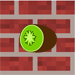
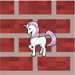
unicorn update

Changed region(s): [[0.24, 0.2667, 0.7733, 0.7733]]

diff --git a/src/nz/ac/aut/ense701/gui/GridSquarePanel.java b/src/nz/ac/aut/ense701/gui/GridSquarePanel.java
@@ -87,23 +87,35 @@ public class GridSquarePanel extends javax.swing.JPanel
                 lblText.setIcon(image);
             }
             //Food
-            if(game.getOccupantStringRepresentation(row, column) == "apple" ) {
-                image = new ImageIcon(getClass().getResource("/nz/ac/aut/ense701/image/scruba.jpg"));
-            }
-            //if( row == 6 && column == 7) {
-            //    image = new ImageIcon(getClass().getResource("/nz/ac/aut/ense701/image/scruba.jpg"));
+            //if(game.getOccupantStringRepresentation(row, column) == "apple" ) {
+                //image = new ImageIcon(getClass().getResource("/nz/ac/aut/ense701/image/scruba.jpg"));
             //}
+            if( row == 6 && column == 7) {
+                image = new ImageIcon(getClass().getResource("/nz/ac/aut/ense701/image/scruba.jpg"));
+                if(game.getOccupantStringRepresentation(row, column) == "") {
+                    image = new ImageIcon(getClass().getResource("/nz/ac/aut/ense701/image/scrub.jpg"));
+                }
+            }
             
             if( row == 5 && column == 4) {
                 image = new ImageIcon(getClass().getResource("/nz/ac/aut/ense701/image/grassm.jpg"));
+                if(game.getOccupantStringRepresentation(row, column) == "") {
+                    image = new ImageIcon(getClass().getResource("/nz/ac/aut/ense701/image/grass.jpg"));
+                }
             }
             
             if( row == 2 && column == 4) {
                 image = new ImageIcon(getClass().getResource("/nz/ac/aut/ense701/image/scrubs.jpg"));
+                if(game.getOccupantStringRepresentation(row, column) == "") {
+                    image = new ImageIcon(getClass().getResource("/nz/ac/aut/ense701/image/scrub.jpg"));
+                }
             }
             
             if( row == 8 && column == 2) {
                 image = new ImageIcon(getClass().getResource("/nz/ac/aut/ense701/image/grasso.jpg"));
+                if(game.getOccupantStringRepresentation(row, column) == "") {
+                    image = new ImageIcon(getClass().getResource("/nz/ac/aut/ense701/image/grass.jpg"));
+                }
             }
             //Predator
             if( row == 2 && column == 6) {

diff --git a/src/nz/ac/aut/ense701/gui/KiwiCountUI.java b/src/nz/ac/aut/ense701/gui/KiwiCountUI.java
@@ -352,7 +352,7 @@ public class KiwiCountUI
         gridBagConstraints.anchor = java.awt.GridBagConstraints.WEST;
         pnlPlayerData.add(txtScore, gridBagConstraints);
 
-        lblKiwisCounted.setText("Kiwis Counted :");
+        lblKiwisCounted.setText("Unicorn Counted :");
         gridBagConstraints = new java.awt.GridBagConstraints();
         gridBagConstraints.gridx = 0;
         gridBagConstraints.gridy = 5;
